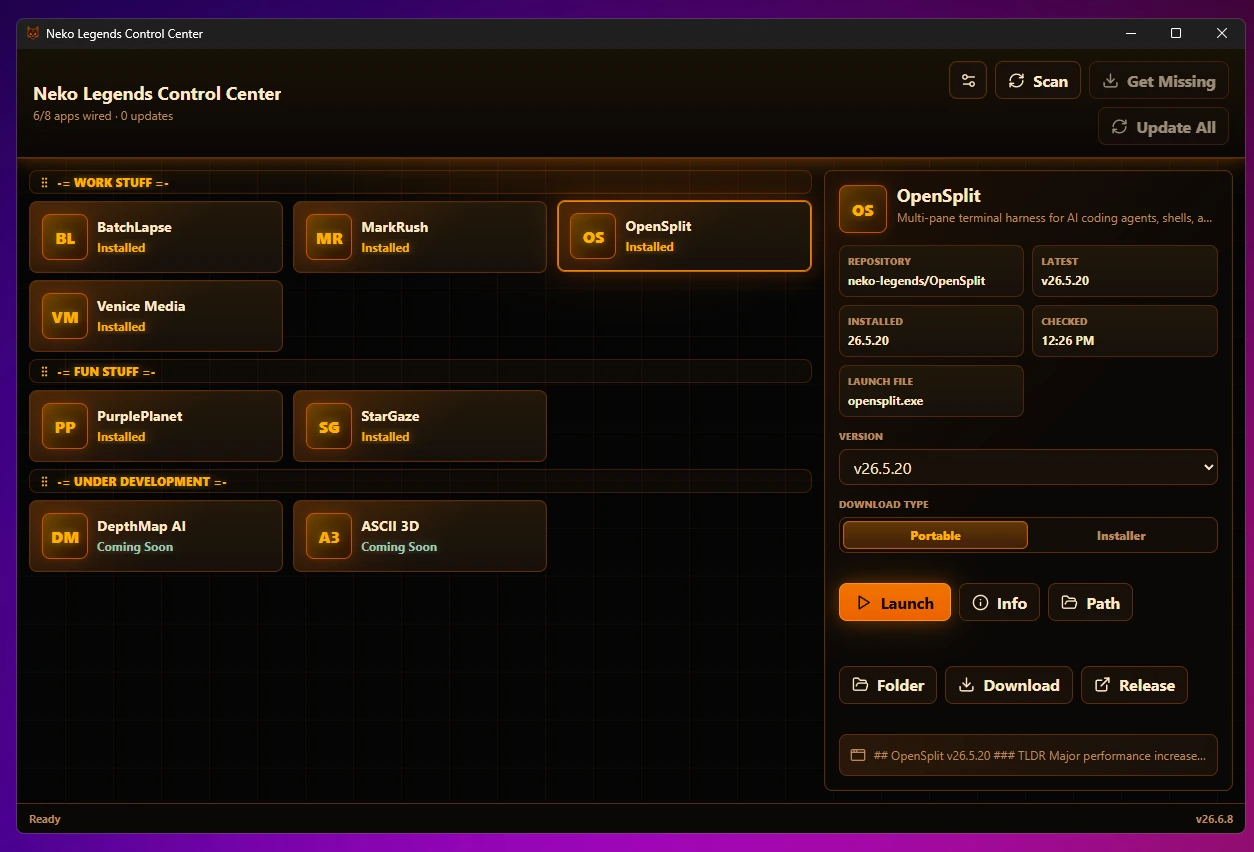
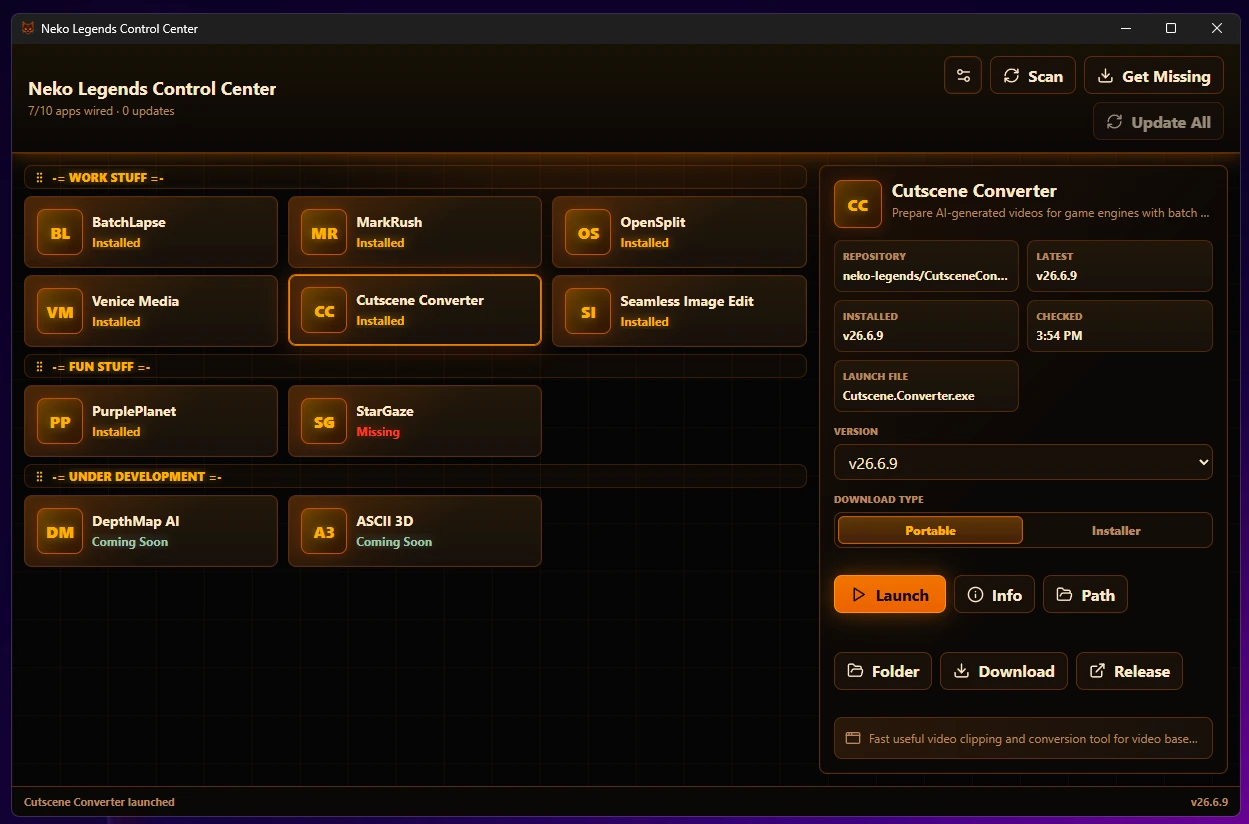
scnreenshot update,  tools update

Changed region(s): [[0.0, 0.0, 1.0, 1.0], [0.8743, 0.6068, 0.9367, 0.6675], [0.4059, 0.5158, 0.4371, 0.5461]]

diff --git a/README.md b/README.md
@@ -39,6 +39,7 @@ There are three ways to launch an installed app:
 | Cutscene Converter | [neko-legends/CutsceneConverter](https://github.com/neko-legends/CutsceneConverter) | Prepare AI-generated videos for game engines with batch conversion, trimming, scaling, and combining. |
 | MarkRush | [neko-legends/MarkRush](https://github.com/neko-legends/MarkRush) | Fast local Markdown viewer/editor built for huge files and folders. |
 | OpenSplit | [neko-legends/OpenSplit](https://github.com/neko-legends/OpenSplit) | Multi-pane terminal harness for AI coding agents, shells, and SSH sessions. |
+| Seamless Image Edit | [neko-legends/SeamlessImageEdit](https://github.com/neko-legends/SeamlessImageEdit) | Create seamless and tileable texture outputs from images or folders with seam repair, flattening, and 2x2 preview. |
 | Venice Media | [neko-legends/VeniceMediaLocal](https://github.com/neko-legends/VeniceMediaLocal) | Local Venice API media workspace for images, video, music, voice, and cleanup. |
 
 ### Fun Stuff